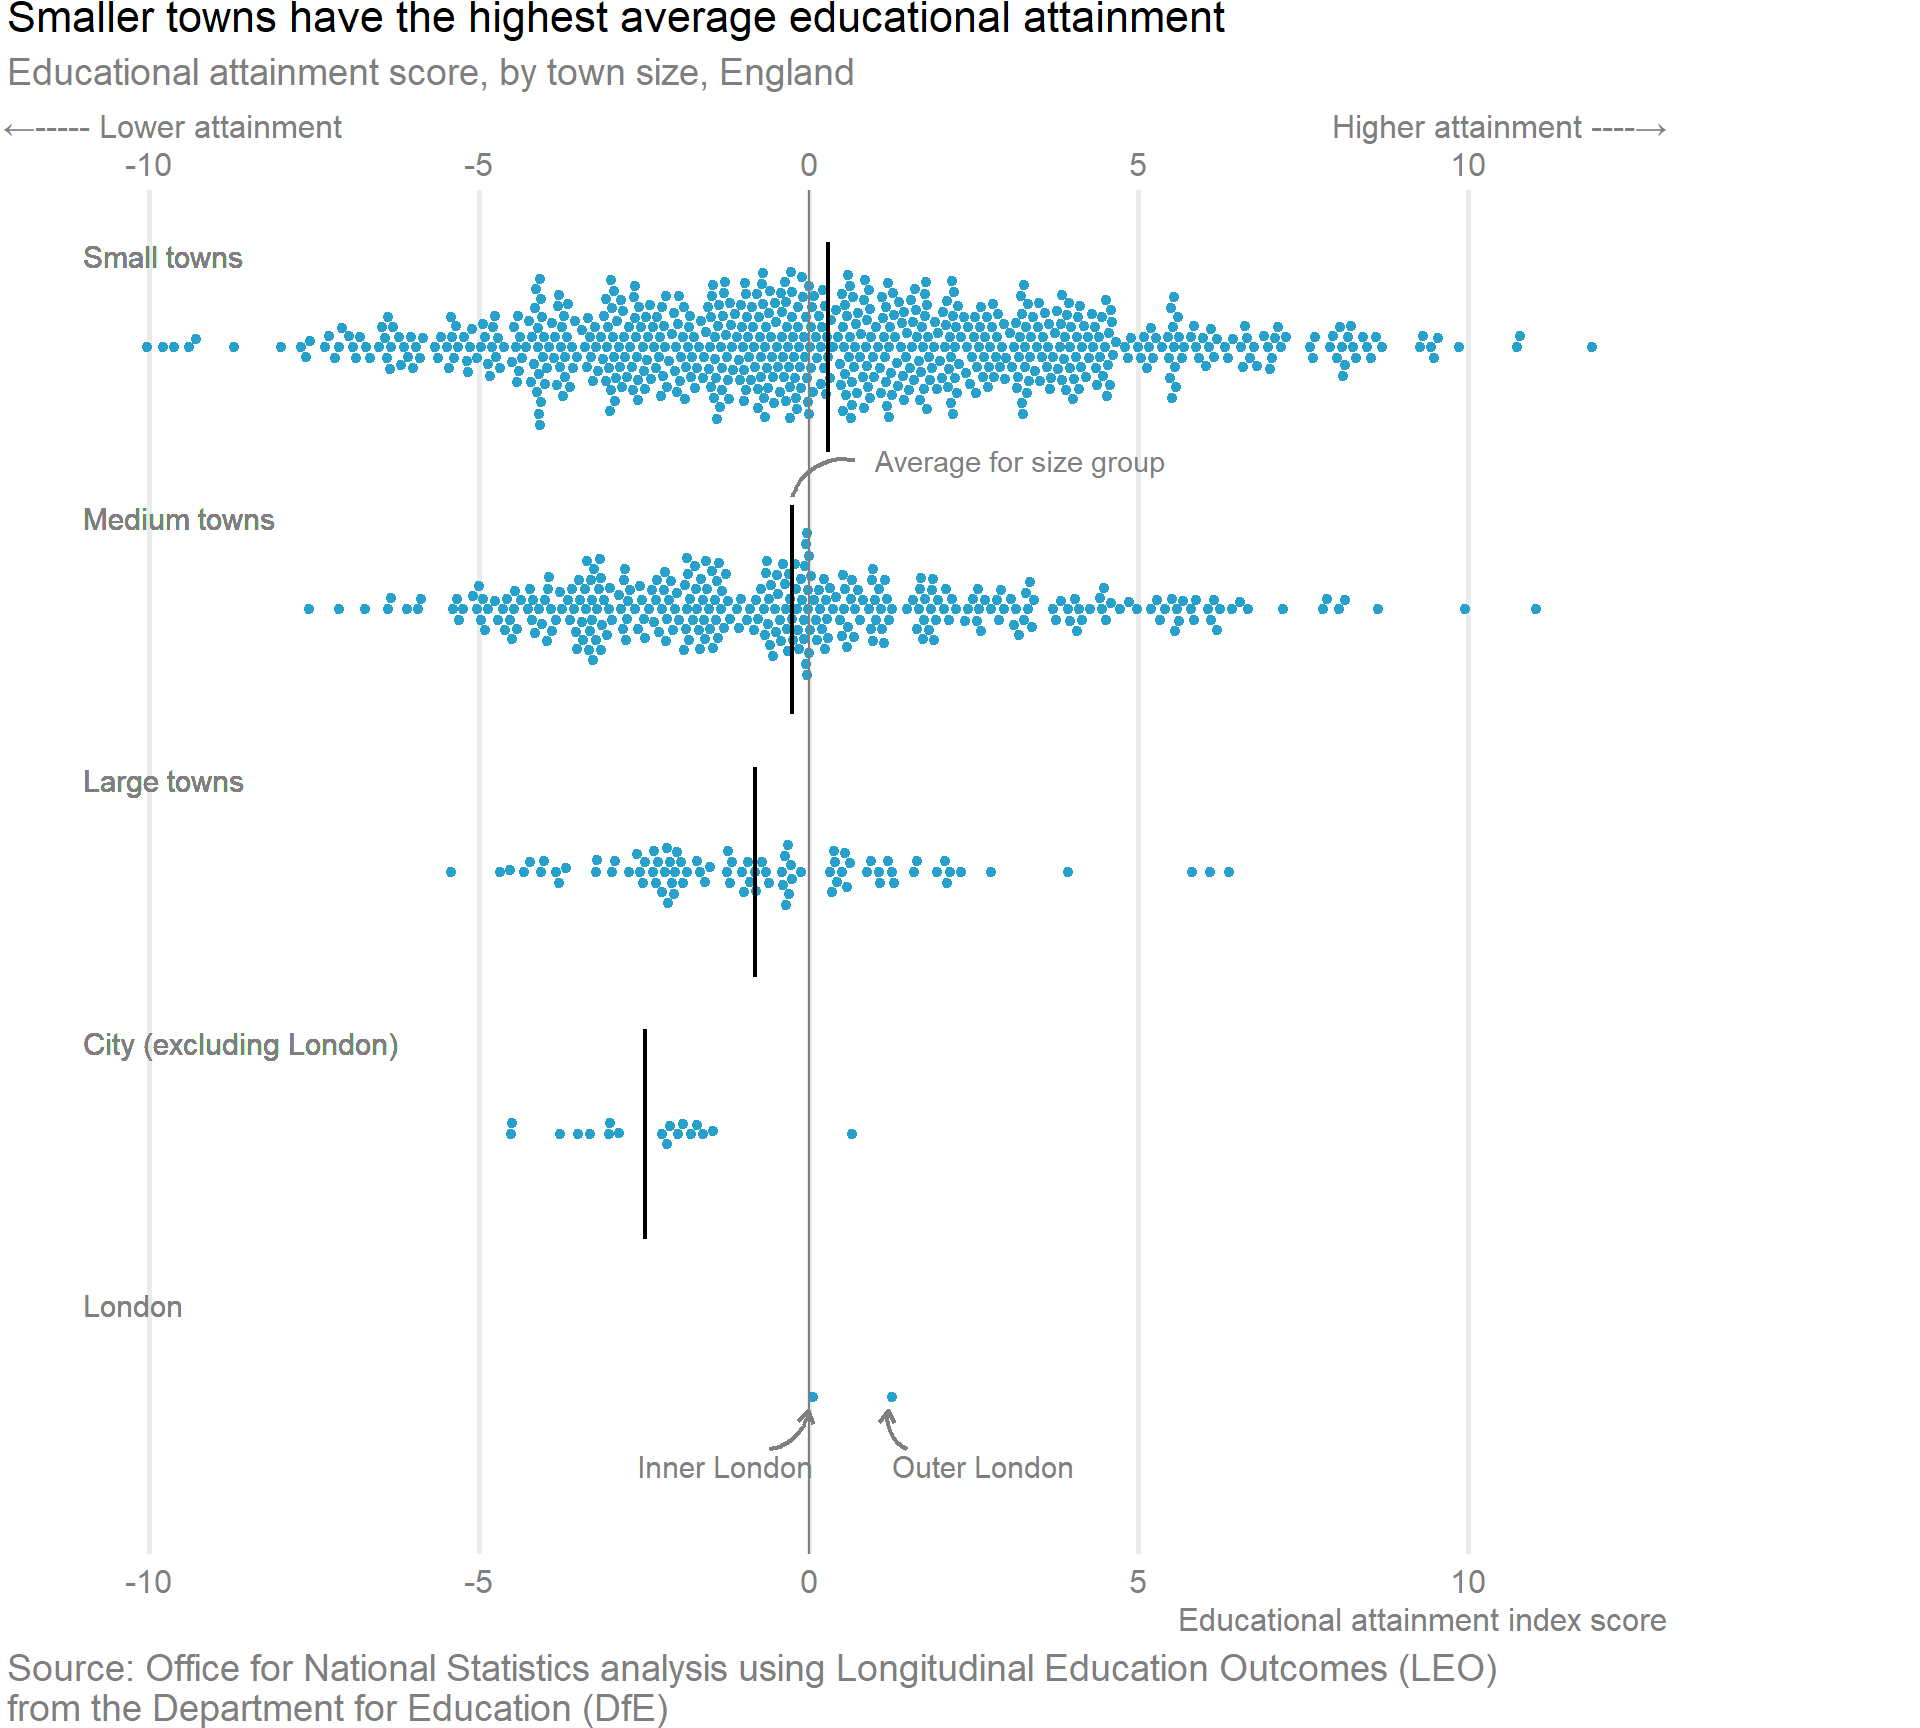
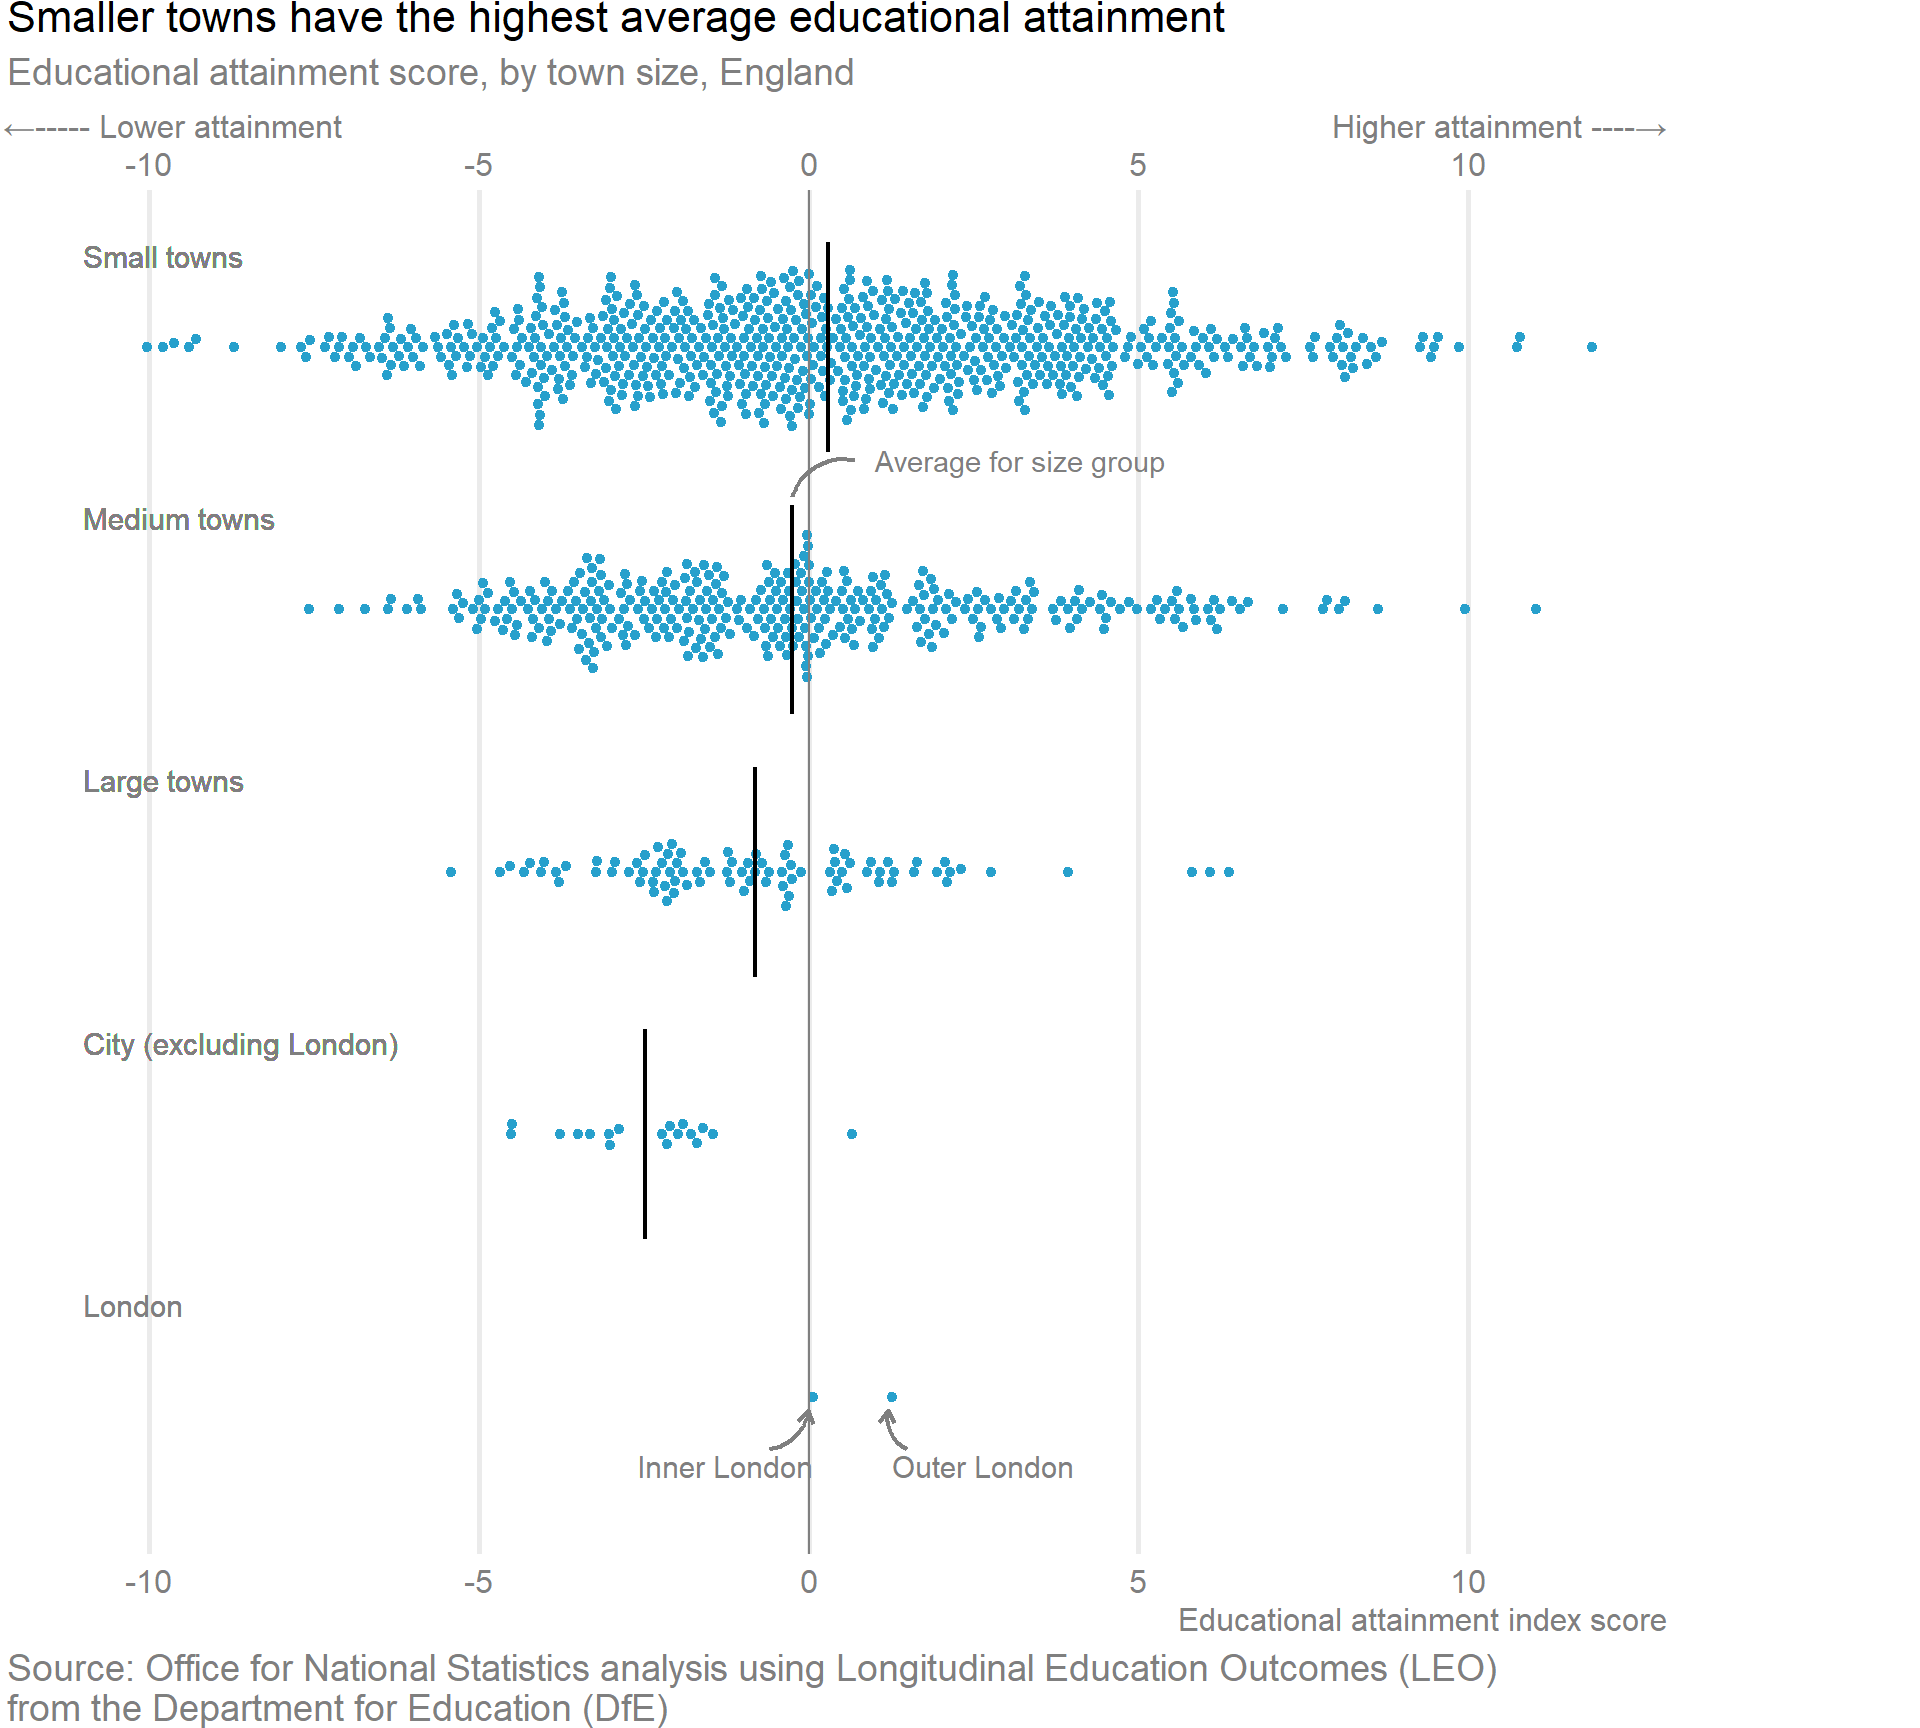
0.057

diff --git a/docs/dot.html b/docs/dot.html
@@ -529,7 +529,7 @@ pre > code.sourceCode > span > a:first-child::before { text-decoration: underlin
 </div>
 <div class="cell page-columns page-full">
 <div class="sourceCode" id="cb4"><pre class="downlit sourceCode r code-with-copy"><code class="sourceCode R"><span><span class="fu"><a href="https://ggplot2.tidyverse.org/reference/ggplot.html">ggplot</a></span><span class="op">(</span>data <span class="op">=</span> <span class="va">df</span>, <span class="fu"><a href="https://ggplot2.tidyverse.org/reference/aes.html">aes</a></span><span class="op">(</span>x <span class="op">=</span> <span class="va">education_score</span>, y <span class="op">=</span> <span class="va">size_flag</span><span class="op">)</span>, <span class="op">)</span> <span class="op">+</span></span>
-<span>  <span class="fu"><a href="http://mjskay.github.io/ggdist/reference/geom_dots.html">geom_dots</a></span><span class="op">(</span>smooth <span class="op">=</span> <span class="fu"><a href="http://mjskay.github.io/ggdist/reference/smooth_discrete.html">smooth_discrete</a></span><span class="op">(</span>kernel <span class="op">=</span> <span class="st">"biweight"</span><span class="op">)</span>,</span>
+<span>  <span class="fu"><a href="http://mjskay.github.io/ggdist/reference/geom_dots.html">geom_dots</a></span><span class="op">(</span>smooth <span class="op">=</span> <span class="fu"><a href="http://mjskay.github.io/ggdist/reference/smooth_discrete.html">smooth_discrete</a></span><span class="op">(</span>kernel <span class="op">=</span> <span class="st">"biweight"</span><span class="op">)</span>, stackratio <span class="op">=</span> <span class="fl">0.8</span>,</span>
 <span>    side <span class="op">=</span> <span class="st">"both"</span>, layout <span class="op">=</span> <span class="st">"swarm"</span>, slab_shape <span class="op">=</span> <span class="fl">21</span>, width <span class="op">=</span> <span class="fl">0.8</span>,</span>
 <span>                            slab_color <span class="op">=</span> <span class="st">"#27A0CC"</span>, slab_fill <span class="op">=</span> <span class="st">"#27A0CC"</span>,</span>
 <span>                    scale <span class="op">=</span> <span class="fl">0.65</span>, overflow <span class="op">=</span> <span class="st">"compress"</span>, binwidth <span class="op">=</span> <span class="fu"><a href="https://rdrr.io/r/grid/unit.html">unit</a></span><span class="op">(</span><span class="fu"><a href="https://rdrr.io/r/base/c.html">c</a></span><span class="op">(</span><span class="fl">1.6</span>, <span class="cn">Inf</span><span class="op">)</span>, <span class="st">"mm"</span><span class="op">)</span><span class="op">)</span> <span class="op">+</span></span>
